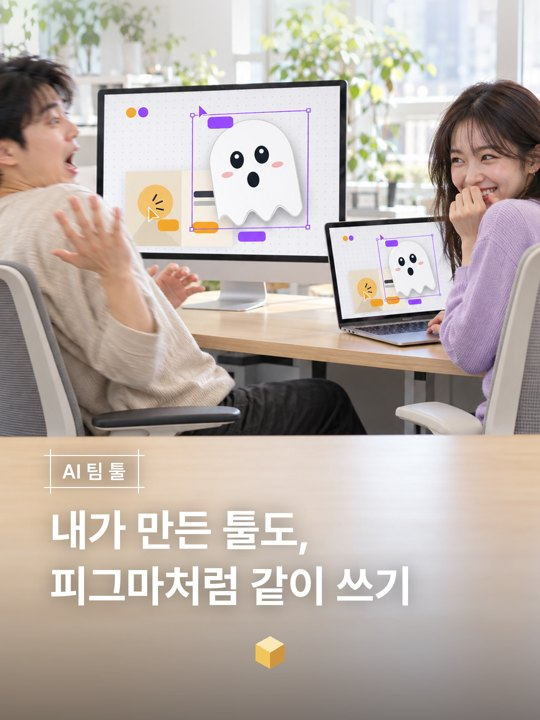
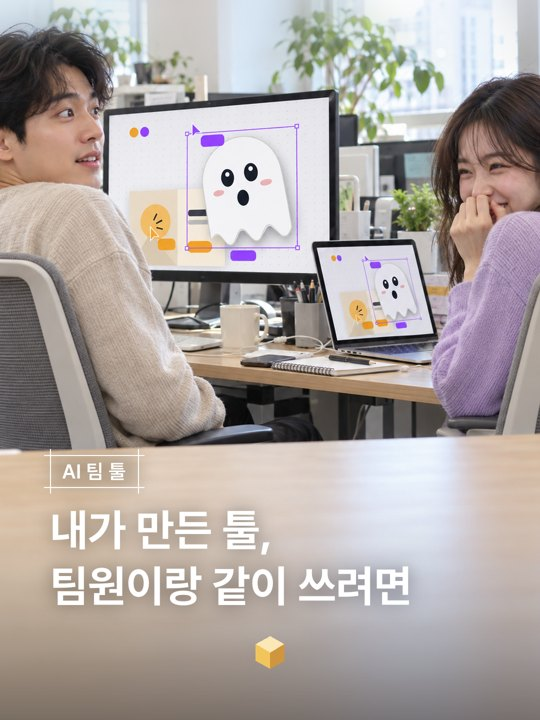
EP.16 상세 노트 v4 — 내가 만든 툴, 팀원이랑 같이 쓰려면(저장 위치를 Supabase로 · 요청문 · 연결 단계 · 더 하기) (목록 Soon! 유지)

diff --git a/ep/16/index.html b/ep/16/index.html
@@ -3,10 +3,10 @@
 <head>
 <meta charset="utf-8">
 <meta name="viewport" content="width=device-width, initial-scale=1">
-<title>EP.16 내가 만든 툴도, 피그마처럼 같이 쓰기 · 이거 모르는 마케터 없게 해주세요</title>
-<meta name="description" content="AI로 만든 툴은 고친 내용이 각자 컴퓨터에만 남아요. Supabase로 팀 공용 창고와 로그인을 붙여 팀이 같은 화면을 보게 하는 법. AI에 그대로 줄 요청문, 무료 한도, 보안 체크.">
-<meta property="og:title" content="EP.16 내가 만든 툴도, 피그마처럼 같이 쓰기">
-<meta property="og:description" content="AI로 만든 툴에 팀 공용 창고(Supabase) 붙이는 요청문 + 무료 한도 + 보안 체크.">
+<title>EP.16 내가 만든 툴, 팀원이랑 같이 쓰려면 · 이거 모르는 마케터 없게 해주세요</title>
+<meta name="description" content="팀원이 고친 문구가 내 화면엔 없다면, 툴이 고친 내용을 각자 브라우저에만 저장해서예요. 툴을 만든 AI한테 저장 위치를 Supabase로 바꿔 달라고 하는 요청문과 연결 단계, 무료 한도.">
+<meta property="og:title" content="EP.16 내가 만든 툴, 팀원이랑 같이 쓰려면">
+<meta property="og:description" content="저장 위치를 Supabase로 바꾸는 AI 요청문 + 연결 단계 + 무료 한도.">
 <meta property="og:image" content="https://goofee-9p.github.io/ai-marketing-honey/assets/img/og.jpg">
 <link rel="icon" type="image/svg+xml" href="../../assets/img/logo.svg">
 <link rel="apple-touch-icon" href="../../assets/img/apple-touch-icon.png">
@@ -23,41 +23,43 @@
 
   <div class="hero">
     <span class="chip">EP.16 · 팀이 같이 쓰는 툴</span>
-    <h1>내가 만든 툴도,<br><span class="hl">피그마처럼 같이 쓰기</span></h1>
-    <p class="lead">AI로 만든 툴은 링크로 같이 열어도, 고친 내용이 각자 컴퓨터에만 남아요. 팀원이 바꾼 문구를 메신저로 다시 물어보고 있다면, 툴에 '팀 공용 창고'를 붙이면 돼요. 그게 Supabase예요.</p>
-    <div class="meta"><span class="chip ghost">AI에 줄 요청문</span><span class="chip ghost">무료 한도</span><span class="chip ghost">보안 체크</span></div>
+    <h1>내가 만든 툴,<br><span class="hl">팀원이랑 같이 쓰려면</span></h1>
+    <p class="lead">팀원이 고친 문구가 내 화면엔 없어서 메신저로 다시 묻고 있다면, 이유는 저장 위치예요. 처음 만든 AI 툴은 보통 고친 내용을 <b>각자 브라우저에만</b> 저장해요. 툴을 만든 AI한테 저장 위치를 <b>Supabase(팀 공용 창고)</b>로 바꿔 달라고 하면, 누가 고쳐도 한곳에 저장되고 새로고침하면 모두 같은 문구가 떠요.</p>
+    <div class="meta"><span class="chip ghost">AI에 줄 요청문</span><span class="chip ghost">연결 단계</span><span class="chip ghost">더 하기</span></div>
   </div>
 
   <section>
     <h2><span class="n">01</span>AI에 그대로 붙여 넣는 요청문</h2>
-    <p class="muted">툴을 만든 대화(Claude · ChatGPT · Cursor 등)에 이어서 붙여 넣어요. Supabase 가입과 새 프로젝트 만들기, 키 붙여 넣기는 직접 해야 해요. AI가 어디서 무엇을 복사하라고 알려 줘요.</p>
+    <p class="muted">툴을 만든 그 대화(Claude · ChatGPT · Cursor 등)에 이어서 붙여 넣어요.</p>
     <div class="prompt" id="supabase-request">
-      <div class="label">팀 저장 · 로그인 · 실시간 붙이기</div>
-      <pre>이 툴을 팀원들과 같이 쓰게 바꿔 줘. 저장소는 Supabase를 쓸 거야.
-1. 지금 화면에서 고치는 내용(예: 헤드라인, 버튼 문구, 사이즈)을 Supabase 표에 저장해 줘.
-2. 이메일로 로그인한 사람만 툴을 열 수 있게 해 줘. 로그인 안 한 사람은 로그인 화면만 보여.
-3. 접근 규칙(RLS)을 켜서, 우리 팀 사람만 읽고 쓸 수 있게 해 줘.
-4. 다른 사람이 고치면 새로고침 없이 내 화면에도 바로 보이게 실시간 반영(Realtime)도 켜 줘.
-5. 내가 Supabase에서 직접 해야 하는 일(프로젝트 만들기, 키 복사 위치, 표 만들기 SQL)을 순서대로 알려 줘.
+      <div class="label">저장 위치를 Supabase로</div>
+      <pre>이 툴은 지금 고친 내용이 내 브라우저에만 저장돼서 팀원 화면에는 안 보여.
+저장 위치를 Supabase로 바꿔 줘. 지금 화면에서 고치는 내용(예: 헤드라인, 버튼 문구, 사이즈)을 Supabase 표에 저장하고, 툴을 열면 그 표에서 불러오게 해 줘.
+내가 Supabase에서 직접 해야 하는 일(프로젝트 만들기, 키 복사 위치, 표 만드는 SQL)을 순서대로 알려 줘.
 코드는 몰라도 따라 할 수 있게 한 단계씩 설명해 줘.</pre>
-      <p class="tip">💡 팀원이 링크로 열게 하려면 툴을 인터넷에 올려 주소가 있어야 해요(예: Vercel). 이미 올렸다면 "다시 올려 줘"까지 같이 요청하세요.</p>
+      <p class="tip">💡 팀원이 링크로 열게 하려면 툴이 인터넷 주소로 올라가 있어야 해요(EP.15 참고). 이미 올렸다면 "바꾼 다음 다시 올려 줘"까지 같이 요청하세요.</p>
     </div>
   </section>
 
   <section>
-    <h2><span class="n">02</span>한 장으로 보는 구조</h2>
-    <img src="../../assets/img/ep16/sync.jpg" alt="Supabase 표에 새 문구가 저장되고, 내 노트북과 팀원 폰에 같은 배너가 뜨는 장면" loading="lazy" style="width:100%;border-radius:16px;border:1.5px solid var(--line);display:block;margin-top:10px">
-    <div class="card" style="margin-top:12px"><b>툴 = 화면, Supabase = 팀 공용 창고</b><p class="muted" style="margin:4px 0 0">누가 고쳐도 창고(표)에 저장되고, 모두의 화면이 창고에서 같은 값을 읽어 와요. 로그인은 창고의 문이에요. 문을 연 우리 팀만 들어와요.</p></div>
+    <h2><span class="n">02</span>연결 단계 (직접 하는 부분)</h2>
+    <ol class="muted" style="padding-left:20px;line-height:1.9">
+      <li><a href="https://supabase.com">supabase.com</a>에 가입하고 <b>New project</b>를 만들어요(무료 플랜).</li>
+      <li>AI가 준 <b>표 만드는 SQL</b>을 프로젝트의 <b>SQL Editor</b>에 붙여 넣고 실행해요.</li>
+      <li>프로젝트 설정의 <b>API</b> 화면에서 <b>Project URL</b>과 <b>공개용 키(anon/publishable)</b>를 복사해 AI한테 줘요. <b>service_role 키는 주지 마세요.</b></li>
+      <li>AI가 고쳐 준 툴을 다시 올리고, 내가 고친 뒤 팀원 화면에서 <b>새로고침</b>해 같은 문구가 뜨는지 확인해요.</li>
+    </ol>
+    <img src="../../assets/img/ep16/sync.jpg" alt="노트북에서 고친 문구가 팀원 폰을 새로고침하자 같은 문구로 뜨는 장면" loading="lazy" style="width:100%;border-radius:16px;border:1.5px solid var(--line);display:block;margin-top:10px">
   </section>
 
   <section>
-    <h2><span class="n">03</span>써 보기 전에 꼭</h2>
-    <div class="warn">
+    <h2><span class="n">03</span>더 하기 (필요할 때만)</h2>
+    <div class="card"><b>우리 팀만 들어오게 — 로그인 + 접근 규칙(RLS)</b><p class="muted" style="margin:4px 0 0">AI한테 "이메일로 로그인한 사람만 열 수 있게 하고, 접근 규칙(RLS)을 켜서 우리 팀만 읽고 쓰게 해 줘"라고 덧붙여요. RLS가 꺼져 있으면 주소와 키를 아는 사람이 표를 읽을 수 있어요.</p></div>
+    <div class="card" style="margin-top:10px"><b>새로고침 없이 바로 — 실시간 반영(Realtime)</b><p class="muted" style="margin:4px 0 0">"다른 사람이 고치면 새로고침 없이 내 화면에도 바로 보이게 Realtime도 켜 줘"라고 덧붙여요. 기본은 꺼져 있어서, 켜지 않으면 새로고침해야 보여요.</p></div>
+    <div class="warn" style="margin-top:12px">
       <ul>
         <li><b>무료(Free) 한도</b>: 프로젝트 2개 · 데이터베이스 500MB. <b>1주일 동안 안 쓰면 일시정지</b>돼요. 데이터는 남지만, 대시보드에서 다시 켜기 전까지 툴이 안 열려요.</li>
-        <li><b>RLS(접근 규칙)는 꼭 켜요.</b> 꺼져 있으면 주소와 키를 아는 사람이 표를 읽을 수 있어요.</li>
         <li>고객 개인정보, 광고 계정 비밀번호 같은 민감한 정보는 넣지 않아요. 회사 보안 규정이 있다면 먼저 확인하세요.</li>
-        <li>실시간 반영은 기본으로 꺼져 있어요. 켜지 않으면 새로고침해야 보여요.</li>
       </ul>
     </div>
   </section>
@@ -84,7 +86,7 @@
   </div>
 
   <footer>
-    개인 정리 노트예요. Supabase · Figma와는 관계가 없어요. 무료 한도는 2026-10-24 공식 가격 페이지 기준이에요. 방문 통계를 위해 Google 애널리틱스를 쓸 수 있어요.
+    개인 정리 노트예요. Supabase와는 관계가 없어요. 무료 한도는 2026-10-24 공식 가격 페이지 기준이에요. 방문 통계를 위해 Google 애널리틱스를 쓸 수 있어요.
   </footer>
 </div>
 <script src="../../assets/site.js"></script>

diff --git a/index.html b/index.html
@@ -42,7 +42,7 @@
       </div>
       <div class="ep soon" aria-label="EP.16 곧 공개">
         <img src="assets/img/ep16/cover_34.jpg" alt="EP.16 커버">
-        <div><div class="no">EP.16</div><div class="t">내가 만든 툴도, 피그마처럼 같이 쓰기</div><div class="d">고친 게 각자 컴퓨터에만 남는다면. Supabase로 팀 공용 창고 붙이는 AI 요청문 + 무료 한도 + 보안 체크.</div></div>
+        <div><div class="no">EP.16</div><div class="t">내가 만든 툴, 팀원이랑 같이 쓰려면</div><div class="d">팀원이 고친 게 내 화면엔 없다면, 저장 위치 문제. Supabase로 바꾸는 AI 요청문 + 연결 단계 + 무료 한도.</div></div>
         <span class="badge">Soon!</span>
       </div>
       <a class="ep" href="ep/15/">
